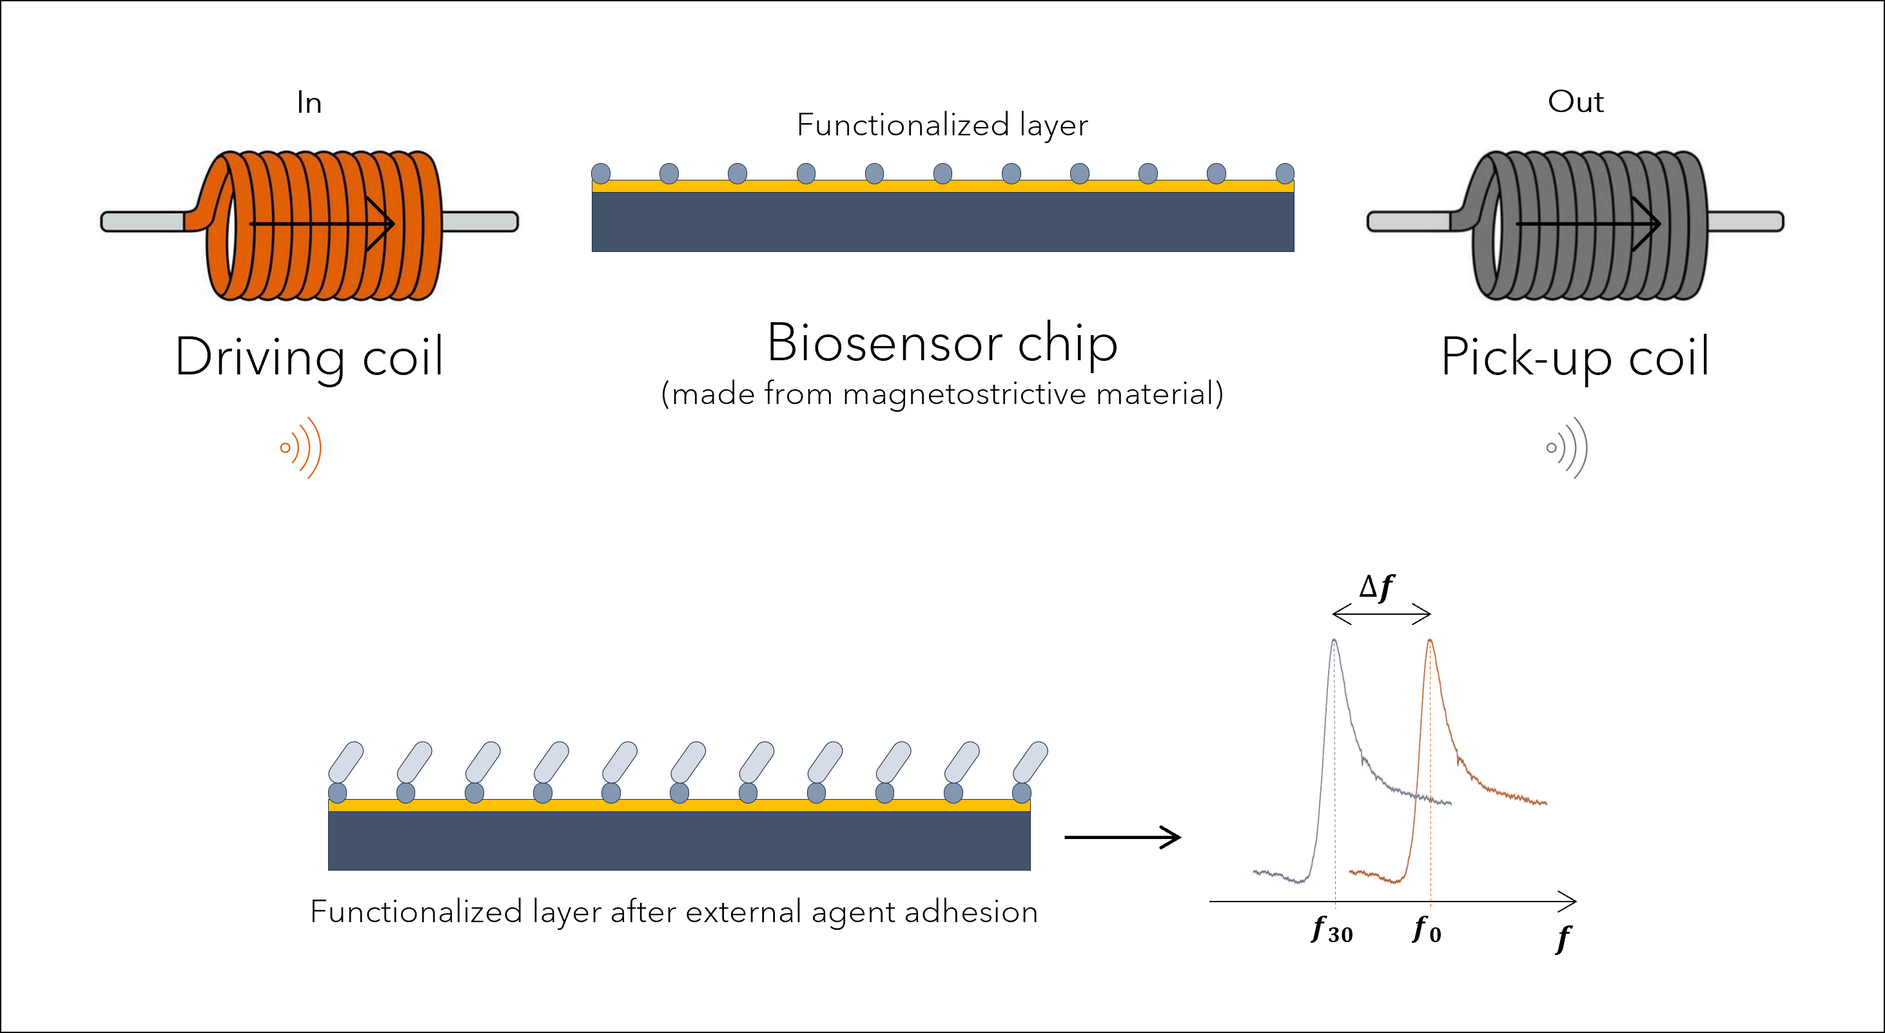
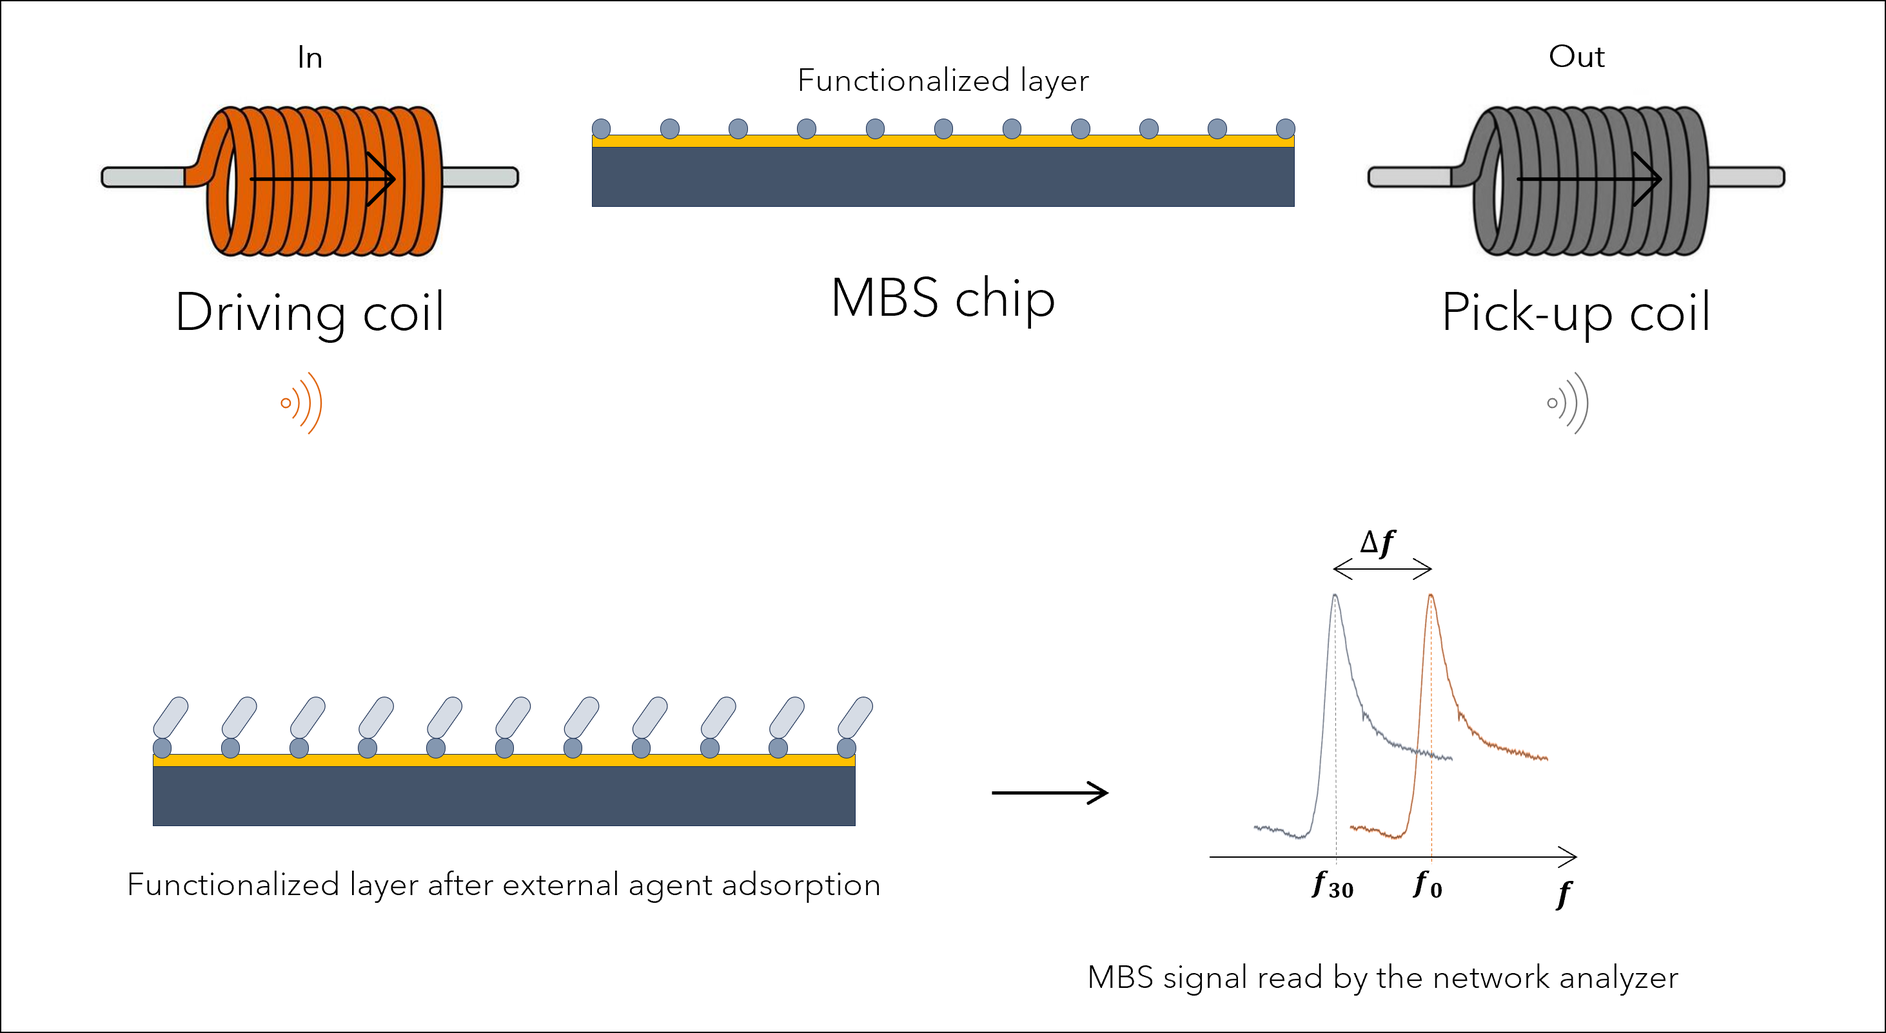
New aditions

diff --git a/article/paper.md b/article/paper.md
@@ -8,17 +8,17 @@ tags:
   - Python
   - machine learning
 authors:
-  - given-names: Alessandro Josue
-    surname: da Silva Andreatta
+  - given-names: Alessandro Josue da Silva
+    surname: Andreatta
     orcid: 0009-0005-8309-5029
     corresponding: true
     affiliation: 1
 
-  - given-names: Luiza 
-    surname: Felippi de Lima
+  - given-names: Luiza Felippi de  
+    surname: Lima
     orcid: 0000-0002-1401-3430
     equal-contrib: true
-    affiliation: 2
+    affiliation: 1
     
   - given-names: Cesar 
     surname: Aguzzoli
@@ -38,30 +38,25 @@ authors:
     affiliation: 1
 
 affiliations:
-  - name: Graduate Program of Materials Science and Engineering, University of Caxias do Sul, Brazil
+  - name: Universidade de Caxias do Sul, 95070-560, Caxias do SUl, RS, Brazil
     index: 1
 
-  - name: Biotechnology Institute, University of Caxias do Sul, Brazil
-    index: 2
-date: 15 July 2024
+date: 29 July 2024
 bibliography: paper.bib
 ---
 
 # Summary
 
-Generating, plotting, and analyzing signal data is time-consuming. In a context where the demand for rapid diagnostics is increasing, the assistance of intelligent processes that abstract a significant portion of the work is essential. Analix is software that reads frequency data generated when magnetoelastic sensors are subjected to an environment containing an external agent (such as SARS-CoV-2). Magnetoelastic sensors have a fundamental vibration frequency, which decreases as their mass increases. Functionalized magnetoelastic sensors with an active surface were divided into test and control groups in controlled experiments. The test sensors were exposed to a medium containing recombinant protein of SARS-CoV-2, and their vibration frequency was collected using a network analyzer, as well as the result of collecting vibrations from the control sensors. The Analix software compared the results, proposing a safe and fast way to diagnose the presence or absence of an external agent. A machine learning classifier generated a portable model applicable to different scenarios. This work demonstrates the construction of the analysis routine until the final model.
+Generating, plotting, and analyzing sensor's data is time-consuming. In a context where the demand for rapid diagnostics is increasing, the assistance of intelligent processes that abstract a significant portion of the work is essential. Analix is software that performs the analysis of data from magnetoelastic sensors subjected to an environment containing an external agent (such as SARS-CoV-2 virus). Magnetoelastic sensors have a fundamental vibration frequency, which decreases as their mass increases. In developing magnetoelastic sensors with an active surface, these are divided into test and control groups. The test sensors are exposed to a medium containing recombinant protein of SARS-CoV-2, and their response in frequency spaceis registered. Control sensors are tested the same way, but exposed to a medium without the recombinant protein, so no major resonant frequency change is expected. The Analix software precisely determined the sensors' resonant frequency, this allow a safe and fast way to diagnose the presence of an external agent. A machine learning classifier generated a portable model applicable to different scenarios. This work demonstrates the construction of the analysis routine until the final model.
 
 
 # Statement of need
 
-The primary objective of this project is to develop software for analyzing data from magnetoelastic sensors, focusing on the efficient detection of pathogens. The software aims to provide a robust tool for rapidly and accurately identifying pathogens that threaten public health, such as viruses and bacteria, that pose threats to public health, using advanced techniques such as statistical data analysis and machine learning algorithms.
+The primary objective of this work is to develop software for analyzing data from magnetoelastic sensors, focusing on the efficient detection of pathogens. The software aims to provide a robust tool for rapidly and accurately identifying pathogens that threaten public health, such as viruses and bacteria, using advanced techniques such as statistical data analysis and machine learning algorithms.
 
-The relevance of this approach is evident when considering the backdrop of the pandemic scenario that developed between 2020 and 2022, which continues to manifest its effects today, in addition to the increase in dengue cases in Brazil. Such a context has demonstrated the need for tools that enable the rapid diagnosis of certain diseases, such as COVID-19 and other viral infections, to be obtained swiftly, with high detection efficiency and at a reduced cost.
+The relevance of this approach is evident when considering the backdrop of the pandemic scenario that developed between 2020 and 2022, which continues to manifest its effects even today. Such a context has demonstrated the need for tools that enable the rapid diagnosis of certain diseases, such as COVID-19 and other viral infections, to be obtained swiftly, with high detection efficiency and at a reduced cost.
 
-To achieve this overarching goal, the project sets specific targets that include:
-- evaluating data from functionalized magnetoelastic sensors to detect the presence of recombinant protein of SARS-CoV-2; 
-- developing a predictive model based on the fitting of data curves from a network analyzer;
-- establishing a system capable of assessing the presence or absence of recombinant proteins with high precision, employing a machine learning classifier algorithm in a Jupyter Notebook.
+To achieve this overarching goal, the project aims to evaluate data from functionalized magnetoelastic sensors to detect the presence of recombinant protein of SARS-CoV-2 and to develop a predictive model, using Extreme Gradient Boosting algorithm on resonant frequency data from these sensors, capable of assessing the presence of recombinant proteins with high precision.
 
 
 
@@ -69,41 +64,54 @@ To achieve this overarching goal, the project sets specific targets that include
 
 Over the past decade, several deadly viral epidemics have had a significant impact on global public health, including outbreaks of Ebola, Marburg, Nipah, Zika, Crimean-Congo hemorrhagic fever, COVID-19, and dengue. These epidemics underscore the need for rapid and accurate detection methods and the development of effective drugs and vaccines [@frieden1:2014; @cdc2:2023; @rougeron3:2015; @cdc4:2023; @yadav5:2019; @who6:2018; @leal7:2017; @paho15:2024].
 
-Sensors made with magnetoelastic materials and machine learning models can be an ally in the race for rapid detection mechanisms. These sensitive, precise, and reliable sensors can operate over various temperatures and frequencies. They are also less susceptible to electromagnetic interference and can be integrated into devices with embedded electronics [@cdc8:2023; @bente9:2013; @who10:2022].
+Sensors made with magnetoelastic materials and machine learning models can be an ally in the race for rapid detection solutions. These sensitive, precise, and reliable sensors can operate over various temperatures and frequencies. They are also less susceptible to electromagnetic interference and can be integrated into devices with embedded electronics [@cdc8:2023; @bente9:2013; @who10:2022]. Magnetoelasticity, like magnetostriction, involves the change in magnetization of ferromagnetic materials due to the application of stress or strain. Magnetostriction, discovered by Joule in 1842, consists of the deformation of ferromagnetic materials when exposed to external magnetic fields [@vander32:2000;]. 
 
-Biomedicine is an area that has benefited from sensors constructed from magnetoelastic materials, such as Magnetoelastic Biosensors (MBS). They are applied in monitoring biological parameters and can be used to detect the presence of bacteria and viruses, such as the SARS-CoV-2 coronavirus. Using machine learning for classification can increase the sensitivity and accuracy of diagnosis [@cdc11:2023; @who12:2023; @ms13:2023; @barreto14:2008].
+Magnetoelasticity is influenced by the magnetostriction constant $\lambda$, the anisotropic constant $K$, and the material magnetization $M$. On the magnetic permeability variation $\frac{d\mu}{d\sigma}$, magnetoelasticity sensitivity to stress is maximized when the applied stress $\lambda \sigma$ approaches $2K/3$, as in the equation [@ludwig33:2002]
 
-Magnetoelasticity, like magnetostriction, involves the change in magnetization of ferromagnetic materials due to the application of stress or strain. Magnetostriction, discovered by Joule in 1842, consists of the deformation of ferromagnetic materials when exposed to external magnetic fields. Magnetoelasticity is influenced by the magnetostriction constant, the anisotropic constant, and the material magnetization, and its sensitivity to stress is maximized when the applied stress approaches $2K/3$. Magnetoelastic sensors (MES) utilize the magnetoelastic effect to measure physical quantities such as stress, pressure, temperature, strain, or electric current. They are manufactured from amorphous metal alloys, commercially known as Metglas 2826MB and Metglas 2605SC, and can detect mechanical vibrations induced by magnetic fields. These sensors have diverse applications, from wireless monitoring of tires and machine shafts to detecting vibrations in civil constructions and monitoring biological parameters, such as plasma pH in the human body [@grimes16:2011; @jackson17:2019; @ausanio18:2005; @vander32:2000; @ludwig33:2002;@cai34:2000; @baran35:2011; @engdahl36:2000; @sablik37:1993; @szewczyk38:2008; @cullen39:2001; @desmione40:2002; @grimes41:2002; @hernando42:1988; @modzelewski43:1981; @jain44:2001; @croce45:2014; @mori46:2021; @khan47:2017; @kouz48:2000; @narita49:2021].
+$$ 
+\frac{d\mu}{d\sigma} = \frac{3 \lambda \mu_0 M^2}{(2K - 3\lambda \sigma)^2}, \text{ to } 2K > 3\lambda \sigma.
+$$
 
-Magnetoelastic sensors exhibit a fundamental frequency, which takes into account the length $(L)$ of the sensor, its modulus of elasticity $(E)$, Poisson’s ratio $(\nu)$, and the density $(\rho)$ of the alloy from which it is made, defined by the following equation [@sisniega50:2020]:
+Magnetoelastic sensors (MES) utilize the magnetoelastic effect to measure physical quantities such as stress, pressure, temperature, strain, or electric current. They are usually manufactured from amorphous metal alloys, commercially known as Metglas 2826MB and Metglas 2605SC, and can detect mechanical vibrations induced by magnetic fields. These sensors have diverse applications, from wireless monitoring of tires and machine shafts to detecting vibrations in civil constructions and monitoring biological parameters, such as plasma pH in the human body [@grimes16:2011; @jackson17:2019; @ausanio18:2005; @cai34:2000; @baran35:2011; @engdahl36:2000; @sablik37:1993; @szewczyk38:2008; @cullen39:2001; @desmione40:2002; @grimes41:2002; @hernando42:1988; @modzelewski43:1981; @jain44:2001; @croce45:2014; @mori46:2021; @khan47:2017; @kouz48:2000; @narita49:2021].
 
-$$f_0 = \frac{1}{2L} \sqrt{\frac{E}{\rho(1 - \nu)}}$$
+Flat and rectangular magnetoelastic sensors exhibit a fundamental frequency $f_0$, which depends on the length $(L)$ of the sensor, its modulus of elasticity $(E)$, Poisson’s ratio $(\nu)$, and the density $(\rho)$ of the alloy from which it is made, and it is given by [@sisniega50:2020]:
 
-Artificial intelligence and machine learning are fundamental in enhancing MES detection and diagnosis. Artificial intelligence enables the development of systems capable of performing tasks that require human intelligence, such as pattern recognition and decision-making. Machine learning, a subfield of artificial intelligence, focuses on developing algorithms that learn from data. Techniques like bootstrap and statistical resampling methods are used to estimate statistics from a data sample, contributing to the analysis and interpretation of sensor signals [@mellit51:2008; @moor52:2006; @mccarthy53:1956; @domingos54:2012; @nilsson56:2013; @bishop57:2006; @macario58:2009; @sas59; @amaral60:2016; @shalev61:2014; @brownlee62:2016; @monard63:2003; @efron69:2000; @davison70:1997].
+$$f_0 = \frac{1}{2L} \sqrt{\frac{E}{\rho(1 - \nu)}}.$$
+
+Accordingly, magnetoelastic biosensors (MBS)can be applied in monitoring biological parameters and can be used to detect the presence of bacteria and viruses, such as the SARS-CoV-2 coronavirus. Using machine learning for classification can increase the sensitivity and accuracy of diagnosis [@cdc11:2023; @who12:2023; @ms13:2023; @barreto14:2008].
+
+Artificial intelligence and machine learning are fundamental in enhancing MBS based diagnosis. Artificial intelligence enables the development of systems capable of performing tasks that require human intelligence, such as pattern recognition and decision-making. Machine learning, a subfield of artificial intelligence, focuses on developing algorithms that learn from data. Techniques like bootstrap and statistical resampling methods are used to estimate statistics from a data sample, contributing to the analysis and interpretation of sensor signals [@mellit51:2008; @moor52:2006; @mccarthy53:1956; @domingos54:2012; @nilsson56:2013; @bishop57:2006; @macario58:2009; @sas59; @mahesh60:2020; @shalev61:2014; @brownlee62:2016; @monard63:2003; @efron69:2000; @davison70:1997].
 
 # Methodology
 
-The sensors, obtained from Metglas 2826MB3 by Metglas Company, were fabricated into dimensions of 5 mm x 1 mm x 28 μm for optimal vibration modes. They were coated with chrome and gold using magnetron sputtering. Measurements were conducted using electromagnetic coils connected to a Keysight E5061B network analyzer and a DC power source, that reads the vibrational behavior of the sensors as a response to the signal from the analyzer coils.
+The sensors, obtained from Metglas 2826MB3 by Metglas Company, were fabricated into dimensions of 5 mm x 1 mm x 28 μm for optimal vibration modes. They were coated with chrome and gold using magnetron sputtering [@luiza:2024]. Measurements were conducted using driving and pick-up coils connected to a Keysight E5061B network analyzer, that reads the sensors' response to a variable frequency. Figure 1 shows a schematic model of how the reading system is assembled and the measurement of frequency shift after external agents adsorption. 
 
 
-![Representative model of the detection system using magnetoelastic sensors and network analyzer. \label{fig:sensor_reading}](schema.png)
+![Schematic model of the detection system using magnetoelastic biosensors, showing resonant frequency change $\Delta f$ upon an external agend adsorption on MBS surface. \label{fig:sensor_reading}](schema.png)
 
 
-A dataset comprising two groups, test and control, each containing data from three sensors, totaling six, was assembled. Each sensor underwent a 30-minute measurement cycle using a network analyzer, with data collected every 5 minutes, including t = 0, resulting in 7 subsets of data per sensor, with 201 signal and frequency readings per group. The frequency range tested was between 430,000 Hz and 460,000 Hz, encompassing the characteristic resonance frequency of the sensor material. The final dataset consisted of frequency and signal data from all sensor cycles for each group, totaling 8442 rows. 
+A dataset comprising two groups, test and control, each containing data from three sensors, is used to illustrate the application of Analix. The test sensors were exposed to a medium containing recombinant proteins of the SARS-CoV-2 virus, whereas the control sensors were placed in an inert medium. Each sensor underwent a 30-minute measurement cycle using a network analyzer, with data collected every 5 minutes, including t = 0, resulting in 7 subsets of data per sensor, with 201 readings per group. The frequency range tested was between 430,000 Hz and 460,000 Hz, encompassing the characteristic resonance frequency of the sensors. The final dataset consisted of frequency and signal data from all sensor cycles for each group, totaling 8442 rows, as shown in Figure 2. 
 
 
-![Schematic view of data acquisition. \label{fig:data_acquisition}](Arch.png)
+![Schematic representation of data acquisition. \label{fig:data_acquisition}](Arch.png)
 
 
-A hash column was created as a reference field for analysis, combining the group (test or control), sensor number, and signal acquisition time (e.g., T-4-30). Custom software processed the frequency and signal data, capturing values around the estimated peak and fitting an asymmetric Lorentzian model to the data. The curve's minimum value was the point of interest for analysis, as it measured the frequency at a specific experiment time. The difference between this frequency and the one at t=0 was used to identify sensor mass changes caused by the addition of new materials, such as recombinant proteins. Monte Carlo simulations evaluated the statistical significance of the point of interest, with 1000 iterations for each sensor in both groups at each time interval. The resulting dataset contained minimized frequency values and their uncertainties, enabling the plotting of average frequency graphs over time. 
+A hash column was created as a reference field for analysis, combining the group (test or control), sensor number, and signal acquisition time (e.g., T-4-30). Custom software processed the signal versus frequency data, selecting values around the estimated peak and fitting an asymmetric Lorentzian model to the data, as shown in Figure 3. The curve's minimum value was the point of interest for analysis, as it measured the resonant frequency at a specific experiment time. The difference between this frequency and the one at t=0 was used to identify sensor mass changes caused by mass adsorption. Monte Carlo simulations was used to evaluate uncertainties of the point of interest, with 1000 iterations for each sensor in both groups at each time interval. The resulting dataset contained MBS resonant frequency values and their uncertainties, wich can then be represented as a function of time, as in Figure 4 \label{lagergren_T4}. 
 
-![Signal versus frequency and points of interest. \label{fig:points_of_interest}](T-4-30-Points_of_interest.png)
+![MBS singal versus frquency data from network analyzer. The continuous line represents the asymmetric Lorentzian model fitted to data. Resonant frequency is representede by the black dot. \label{fig:points_of_interest}](T-4-30-Points_of_interest.png)
 
-Lagergren’s equation was employed to fit the frequency data over time, facilitating a precise comparison of frequency shifts between test and control sensors. The bootstrap method was applied to obtain randomly selected data points for the classifier, generating an 8000-point dataset (4000 for each group). This dataset used 80% of the data as the training subset and the remaining 20% as the testing subset. An Extreme Gradient Boosting (XGBoost) algorithm was trained and tuned, considering various parameters such as maximum depth, learning rate, and number of estimators, with five-fold cross-validation [@chen67:2016; xgboost68:2024].
+Lagergren’s model for pseudo-first order adsorption was employed to fit the frequency data over time, facilitating a precise comparison of frequency shifts between test and control sensors [@revellame71:2020]. With model appplied to data, it is possible to obtain the resonant frequency at a certain time using parameters $f_0$, $a$ and $c$, from Lagergren's equation, given by  
 
-![Minimized frequency over time and frequency shift for sensor 4. \label{fig:lagergren_T4}](Lagergren_T4.png)
+$$
+f(t) = f(0) \left(1 - ae^{-ct} \right).
+$$
 
 
+
+
+![MBS resonant frequency for test sensor. The continuous line represents the Lagergren's model fitted to data. Parameters of the model are highlighted. \label{fig:lagergren_T4}](Lagergren_T4.png)
+
+The bootstrap method was applied to obtain randomly selected data points for the classifier, generating an 8000-point dataset (4000 for each group). This dataset used 80% of the data as the training subset and the remaining 20% as the testing subset. An Extreme Gradient Boosting (XGBoost) algorithm was trained and tuned, considering various parameters such as maximum depth, learning rate, and number of estimators, with five-fold cross-validation [@chen67:2016; @xgboost68:2024].
 
 # Usage
 
@@ -339,11 +347,11 @@ eval_df, param_df = process_data(combined_df, log_file)
     ---------------------------------------------  ----------------------
 
    
-![png](output_17_2.png)
+![Initial data curve from sensor C-1-0.](output_17_2.png)
 
-![png](output_17_4.png)
+![Accuracy between LMFIT frequency mean and SMC optimized frequency mean for sensor C-1-0.](output_17_4.png)
     
-![png](output_17_5.png)
+![Signal by frequency: Lorentz fucntion fit and points of interest of sensor C-1-0.](output_17_5.png)
     
 
 
@@ -356,9 +364,9 @@ eval_df, param_df = process_data(combined_df, log_file)
 To obtain a model for frequency decay over time, a Lagergren model is applied to minimized data. A detailed report on the model's fit parameters is displayed. 
 
 
-![png](output_22_0.png)
+![Minimized frequency mean by time to sensor C-1-0.](output_22_0.png)
        
-![png](output_22_1.png)
+![Lagergren model by time to sensor C-1-0.](output_22_1.png)
     
 
 
@@ -489,6 +497,6 @@ else:
 
 # Acknowledgements
 
-The authors gratefully acknowledge support from the Brazilian agency Conselho Nacional de Desenvolvimento Científico e Tecnológico (CNPq), Grant No. 302705/2022-8 (C.A.P.), and Grant No. 304602/2022-1 (C.A.). This study was also financed in part by the Coordenação de Aperfeiçoamento de Pessoal de Nível Superior – Brasil (CAPES) – Finance Code 001. Also, thanks are due to Dr. Mariana Roesch-Ely (Instituto de Biotecnologia at Universidade de Caxias do Sul).
+The authors gratefully acknowledge support from the Brazilian agency Conselho Nacional de Desenvolvimento Científico e Tecnológico (CNPq), Grant No. 302705/2022-8 (C.A.P.), and Grant No. 304602/2022-1 (C.A.). This study was also financed in part by the Coordenação de Aperfeiçoamento de Pessoal de Nível Superior – Brasil (CAPES) – Finance Code 001. Thanks also due to Dr. Mariana Roesch-Ely (Instituto de Biotecnologia at Universidade de Caxias do Sul).
 
 # References
